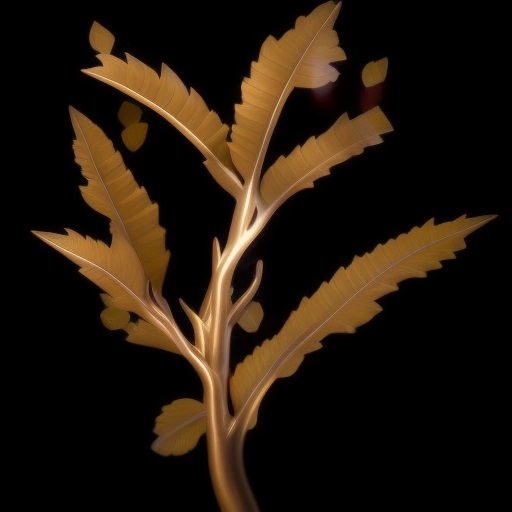
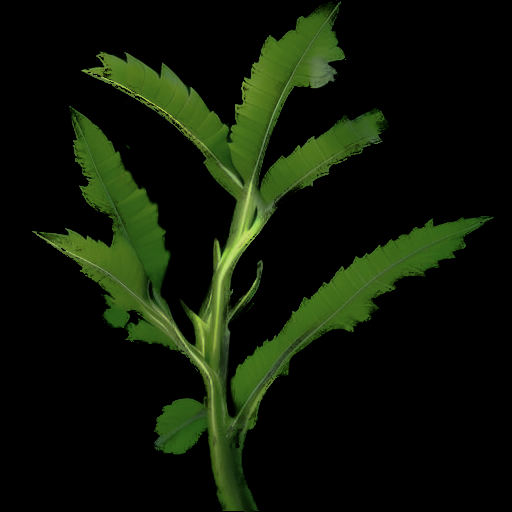
Added particles and changed colors

Changed region(s): [[0.0625, 0.0, 0.9688, 1.0]]

diff --git a/src/main.rs b/src/main.rs
@@ -97,6 +97,12 @@ struct AnimEvent {
     is_strike: bool,
 }
 
+struct ParticleEvent {
+    start: Vec3,
+    vel: Vec3,
+    col: Color,
+}
+
 #[derive(Resource, Default)]
 pub struct BlockMap {
     entities: HashMap<Vec3i, Entity>,
@@ -118,6 +124,16 @@ struct Particle {
     lifetime_left: f32,
     velocity: Vec3,
 }
+
+#[derive(Resource, Default)]
+struct ParticleHandles {
+    mesh: Handle<Mesh>,
+    bark_mat: Handle<CustomMaterial>,
+    wood_mat: Handle<CustomMaterial>,
+}
+
+#[derive(Component)]
+struct MaxVelocity(f32);
 
 fn setup(
     mut commands: Commands,
@@ -149,7 +165,7 @@ fn setup(
             bend_world: true,
             bending: DEFAULT_BENDING,
             offset: INITIAL_CAMERA_OFFSET,
-            shake_intensity: 10.0,
+            shake_intensity: 0.0,
         },
         BloomSettings {
             threshold: 0.6,
@@ -238,6 +254,7 @@ fn setup(
         Collider::ball(0.5),
         ExternalImpulse::default(),
         Velocity::default(),
+        MaxVelocity(8.0),
         CustomDamping(0.01), // Smaller value = stronger effect
         LockedAxes::ROTATION_LOCKED,
         Direction::default(),
@@ -259,6 +276,12 @@ fn setup(
     ]
     .into_iter()
     .collect();
+
+    commands.insert_resource(ParticleHandles {
+        mesh: cube_mesh.clone(),
+        bark_mat: custom_materials.add(CustomMaterial::new(Color::WHITE, &ground_tex)),
+        wood_mat: custom_materials.add(CustomMaterial::new(Color::WHITE, &ground_tex)),
+    });
 
     let ground_material = &custom_materials.add(CustomMaterial::new(Color::WHITE, &ground_tex));
 
@@ -289,7 +312,7 @@ fn setup(
 
     // Make random bushes
     let bush_material = custom_materials.add(CustomMaterial::new(Color::WHITE, &asset_server.load("bush.png")));
-    for _ in 0..350 {
+    for _ in 0..250 {
         let location = random_location(gen.rng, LEVEL_MIN as i64, LEVEL_MAX as i64);
         commands.spawn((
             MaterialMeshBundle {
@@ -308,7 +331,7 @@ fn setup(
 
     // Make random branches
     let bush_material = custom_materials.add(CustomMaterial::new(Color::WHITE, &asset_server.load("branch.png")));
-    for _ in 0..350 {
+    for _ in 0..400 {
         let location = random_location(gen.rng, LEVEL_MIN as i64, LEVEL_MAX as i64) + (0, 10, 0).into();
         commands.spawn((
             MaterialMeshBundle {
@@ -372,6 +395,7 @@ fn movement_system(
     time: Res<Time>,
     mut query: Query<(&mut ExternalImpulse, &mut Direction, &Movement, &Transform, &mut Player)>,
     not_player_query: Query<Entity, Without<Player>>,
+    mut max_vel_query: Query<(&mut Velocity, &MaxVelocity)>,
     mut custom_materials: ResMut<Assets<CustomMaterial>>,
     rapier_context: Res<RapierContext>,
     mut anim_events: EventWriter<AnimEvent>,
@@ -394,6 +418,12 @@ fn movement_system(
         );
         hit
     };
+
+    for (mut vel, max) in max_vel_query.iter_mut() {
+        if vel.linvel.length() > max.0 {
+            vel.linvel = vel.linvel.normalize() * max.0;
+        }
+    }
 
     for (mut external, mut dir, movement, transform, mut player) in query.iter_mut() {
         // Sum vectors from directions that are pressed
@@ -453,7 +483,8 @@ fn custom_damping_system(
 
 fn damage_system(
     mut damage_events: EventReader<DamageEvent>,
-    mut query: Query<&mut Health>,
+    mut particle_events: EventWriter<ParticleEvent>,
+    mut query: Query<(&mut Health, &Transform)>,
     root_query: Query<(&Root, &BlockPosition)>,
     mut player_query: Query<&mut Player>,
     mut camera_query: Query<&mut MainCamera>,
@@ -463,8 +494,10 @@ fn damage_system(
     mut commands: Commands,
 ) {
     for ev in damage_events.iter() {
-        if let Ok(mut health) = query.get_mut(ev.target_entity) {
+        if let Ok((mut health, target_transform)) = query.get_mut(ev.target_entity) {
             health.health -= ev.amount;
+
+            particle_events.send(ParticleEvent { start: target_transform.translation, vel: Vec3::ZERO, col: Color::WHITE });
 
             camera_query.single_mut().shake_intensity += 0.02;
 
@@ -644,8 +677,44 @@ fn camera_shake_system(mut query: Query<&mut MainCamera>, time: Res<Time>) {
     }
 }
 
-fn particle_system(mut query: Query<(&mut Particle, &mut Transform)>) {
+fn particle_system(
+    mut query: Query<(Entity, &mut Particle, &mut Transform)>,
+    mut particle_events: EventReader<ParticleEvent>,
+    particle_handles: Res<ParticleHandles>,
+    time: Res<Time>,
+    mut commands: Commands,
+) {
+    let mut rng = rand::thread_rng();
+    for ev in particle_events.iter() {
 
+        let mut initial_vel = generate_random_unit_vec(&mut rng) * 2.0;
+        initial_vel.y = initial_vel.y.abs() * 4.0;
+
+        commands.spawn((
+            MaterialMeshBundle {
+                mesh: particle_handles.mesh.clone(),
+                material: particle_handles.wood_mat.clone(),
+                transform: Transform::from_translation(ev.start)
+                    .with_rotation(Quat::from_euler(EulerRot::XYZ, 0.5 * PI, PI, 0.0))
+                    .with_scale(Vec3::new(0.1, 0.1, 0.1)),
+                ..default()
+            },
+            Particle {
+                lifetime_left: 3.0,
+                velocity: initial_vel,
+            },
+        ));
+    }
+
+    for (entity, mut part, mut transform) in query.iter_mut() {
+        transform.translation += part.velocity * time.delta_seconds();
+
+        part.velocity += Vec3::new(0.0, -8.0, 0.0) * time.delta_seconds();
+
+        if transform.translation.y < -2.0 {
+            commands.entity(entity).despawn();
+        }
+    }
 }
 
 fn main() {
@@ -659,9 +728,11 @@ fn main() {
         .add_plugin(shaders::ShaderPlugin)
         .add_event::<DamageEvent>()
         .add_event::<AnimEvent>()
+        .add_event::<ParticleEvent>()
         .insert_resource(ClearColor(Color::rgb(27.0 / 255.0, 28.0 / 255.0, 17.0 / 255.0)))
         .insert_resource(BlockMap::default())
         .insert_resource(AudioHandles::default())
+        .insert_resource(ParticleHandles::default())
         .add_startup_system(setup)
         .add_system(movement_system)
         .add_system(collapse_trunks_system)
@@ -673,6 +744,7 @@ fn main() {
         .add_system(damage_system)
         .add_system(animation_system)
         .add_system(camera_shake_system)
+        .add_system(particle_system)
         .register_type::<MainCamera>() // Only needed for in-game inspector
         .register_type::<BlockPosition>()
         .run();
